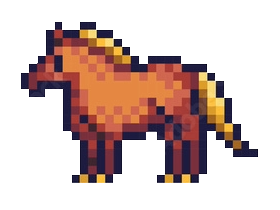
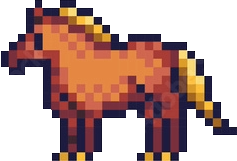
asset changes + credits

diff --git a/src/scenes/Credits.js b/src/scenes/Credits.js
@@ -4,7 +4,7 @@ class Credits extends Phaser.Scene {
     }
     create() {
         //Display Credits
-        this.add.text(game.config.width / 2, 50, 'Audio Credits:', { 
+        this.add.text(game.config.width / 2, 50, 'Credits:', { 
             fontFamily: 'Courier', 
             fontSize: '32px', 
             fontStyle: 'bold', 
@@ -64,7 +64,33 @@ class Credits extends Phaser.Scene {
             fontStyle: 'bold', 
             color: '#FFFFFF' 
         }).setOrigin(0.5);
-        this.add.text(game.config.width / 2, 550, 'Press (M) for Menu', { 
+        this.add.text(game.config.width / 2, 510, 'Farm animals pixel art icon set. Domestic countryside', { 
+            fontFamily: 'Courier', 
+            fontSize: '24px', 
+            fontStyle: 'bold', 
+            color: '#FFFFFF' 
+        }).setOrigin(0.5);
+        this.add.text(game.config.width / 2, 540, 'pets: horse, cow, chicken, rabbit, sheep, and pig logo', { 
+            fontFamily: 'Courier', 
+            fontSize: '24px', 
+            fontStyle: 'bold', 
+            color: '#FFFFFF' 
+        }).setOrigin(0.5);
+        this.add.text(game.config.width / 2, 570, 'collection. 8-bit sprite. Game development, mobile app.', { 
+            fontFamily: 'Courier', 
+            fontSize: '24px', 
+            fontStyle: 'bold', 
+            color: '#FFFFFF' 
+        }).setOrigin(0.5);
+        this.add.text(game.config.width / 2, 600, 'Isolated vector illustration. by SickleMoon', { 
+            fontFamily: 'Courier', 
+            fontSize: '26px', 
+            fontStyle: 'bold', 
+            color: '#FFFFFF' 
+        }).setOrigin(0.5);
+
+
+        this.add.text(game.config.width / 2, 750, 'Press (M) for Menu', { 
             fontFamily: 'Courier', 
             fontSize: '32px', 
             fontStyle: 'bold', 

diff --git a/src/scenes/Play.js b/src/scenes/Play.js
@@ -86,7 +86,7 @@ class Play extends Phaser.Scene {
                 fontStyle: 'bold',
             }).setOrigin(0.5).setVisible(false);
 
-            this.timeText = this.add.text(width / 2, 16, 'Time: 0', { //Timer text
+            this.timeText = this.add.text(width / 2, 16, 'Points: 0', { //Timer text
                 fontSize: '32px',
                 fill: '#fff',
                 fontStyle: 'bold',
@@ -220,19 +220,19 @@ class Play extends Phaser.Scene {
         ball.setVelocity(velocityX, velocityY);
         ball.setCollideWorldBounds(false);
         if (ballType === 'big-ball') {
-            ball.setScale(1.5);
+            ball.setScale(1);
             this.sound.play('oink');
         }
         else if (ballType === 'ball-diagonal') {
-            ball.setScale(.9);
+            ball.setScale(.5);
             this.sound.play('neigh', { volume: 3.0 });
         }
         else if (ballType === 'ball2') {
-            ball.setScale(.8);
+            ball.setScale(.3);
             this.sound.play('cluck');
         }
         else {
-            ball.setScale(.8);
+            ball.setScale(.5);
             this.sound.play('moo');
         }
         //Sound effects

diff --git a/src/scenes/Menu.js b/src/scenes/Menu.js
@@ -33,7 +33,7 @@ class Menu extends Phaser.Scene {
             fontFamily: 'Courier',
             fontSize: '70px',
             fontStyle: 'bold',
-            color: '#000000',
+            color: '#843605',
             align: 'right',
             fixedWidth: 0
         }
@@ -41,7 +41,7 @@ class Menu extends Phaser.Scene {
             fontFamily: 'Courier',
             fontSize: '20px',
             fontStyle: 'bold',
-            color: '#000000',
+            color: '#843605',
             align: 'right',
             fixedWidth: 0
         }
@@ -53,7 +53,7 @@ class Menu extends Phaser.Scene {
         this.add.text(185, 190, 'Start Game', tutorialConfig).setOrigin(0.5)
         this.add.text(410, 190, 'Pause Game', tutorialConfig).setOrigin(0.5)
         this.add.text(640, 190, 'Move Character', tutorialConfig).setOrigin(0.5)
-        this.add.text(game.config.width/2, 700, 'FARM ATTACK', menuConfig).setOrigin(0.5)
+        this.add.text(game.config.width/2, game.config.height/2, 'FARM ATTACK', menuConfig).setOrigin(0.5)
         menuConfig.backgroundColor = '#00FF00'
         menuConfig.color = '#000'
         // define keys
